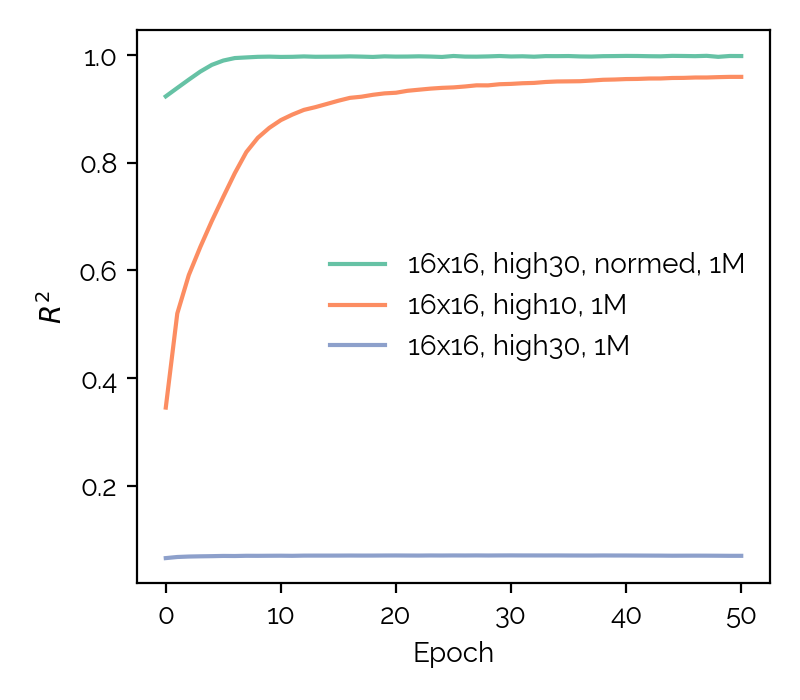
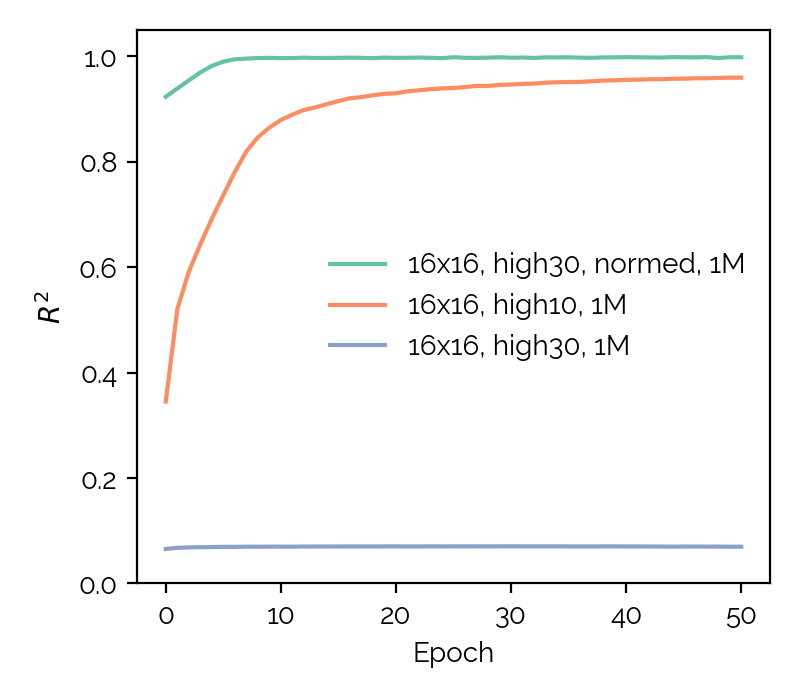
General update of plots.

diff --git a/qubo_nn/plots/plot_qa_comp.py b/qubo_nn/plots/plot_qa_comp.py
@@ -41,6 +41,8 @@ def gen_table(kv):
         v = np.array(v)
         mean, range_ = calc_ci(k, v[1].max(axis=1))  # r2
         print(k, "R2", "%.3f" % mean, "+-", "%.3f" % range_)
+        mean, range_ = calc_ci(k, v[2].min(axis=1))  # eval loss
+        print(k, "Eval Loss", "%.5f" % mean, "+-", "%.5f" % range_)
 
 
 def plot(kv):

diff --git a/qubo_nn/plots/plot_qk.py b/qubo_nn/plots/plot_qk.py
@@ -117,6 +117,7 @@ def plot2(kv):
 
     # plt.legend(loc='center left', bbox_to_anchor=(1, 0.5), frameon=False)
     plt.legend(frameon=False)
+    plt.ylim((0, 1.05))
     plt.tight_layout()
     plt.show()
     fig.savefig('qk_norm.png')
